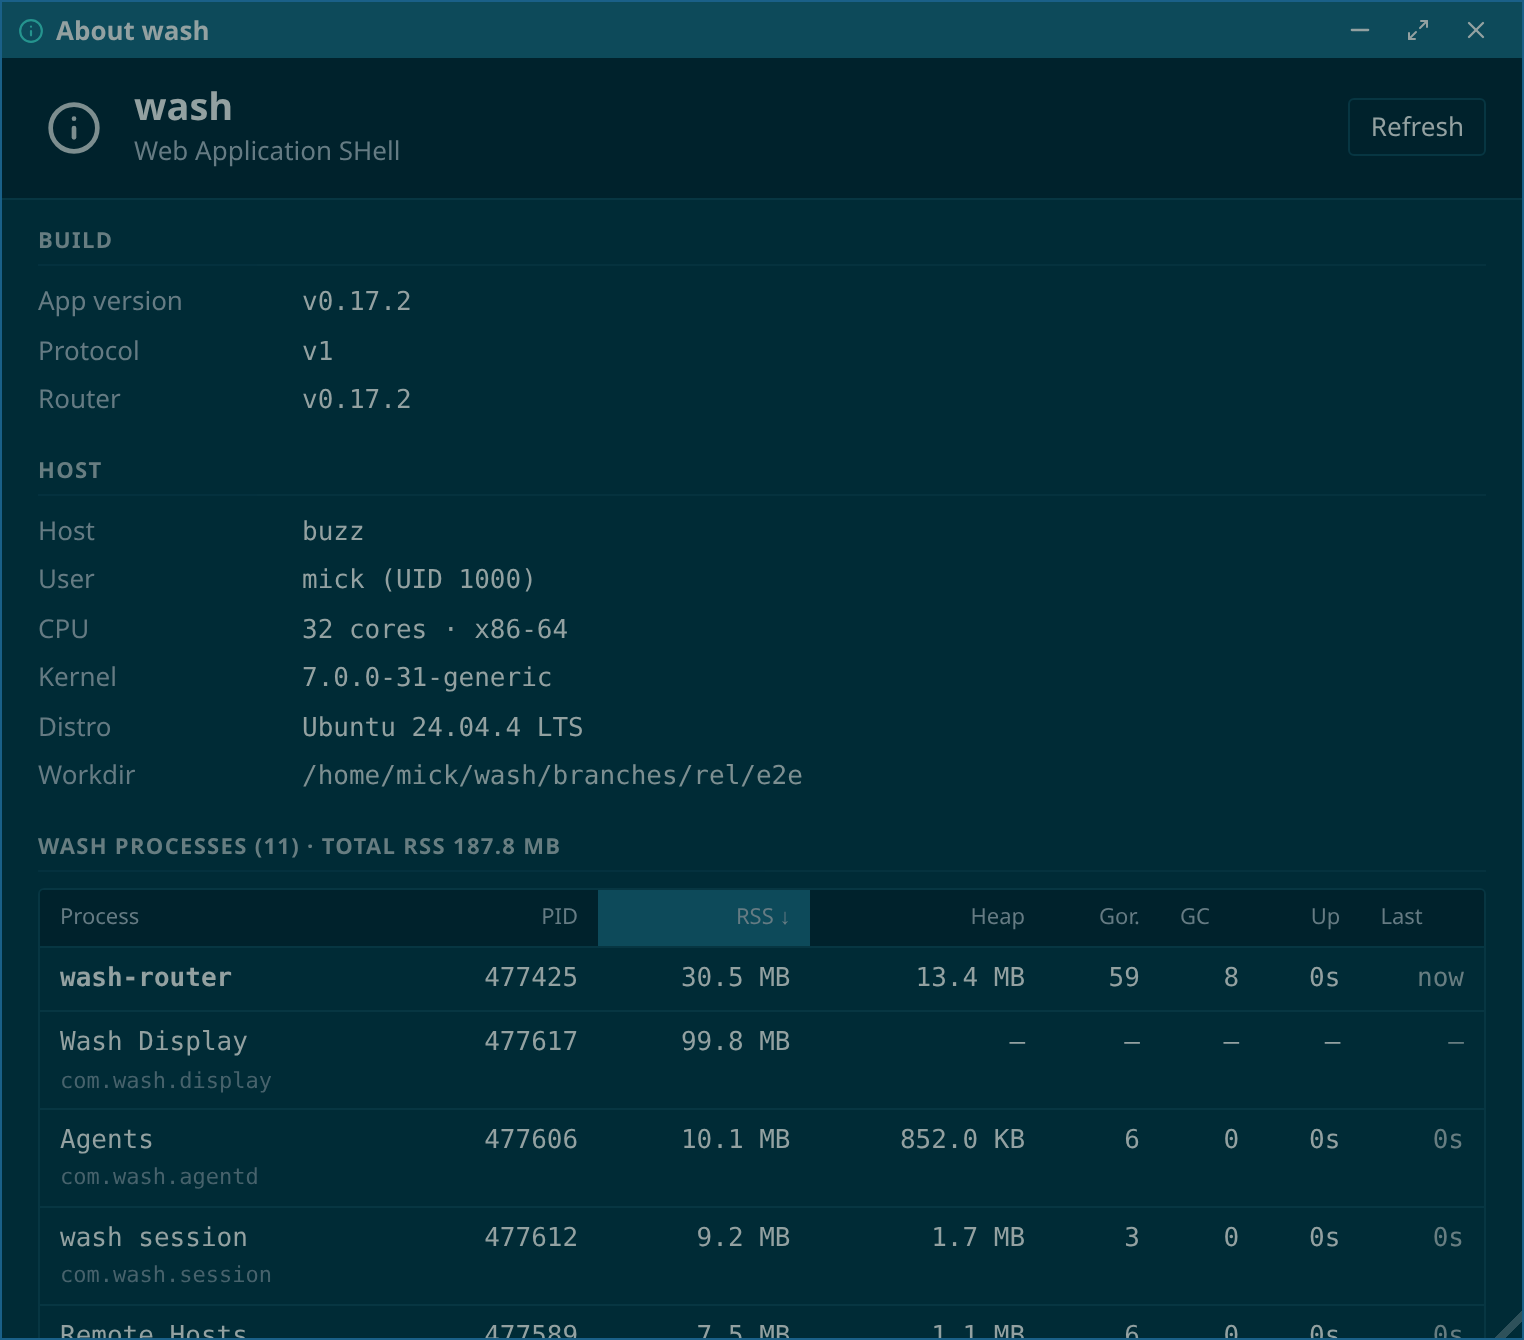
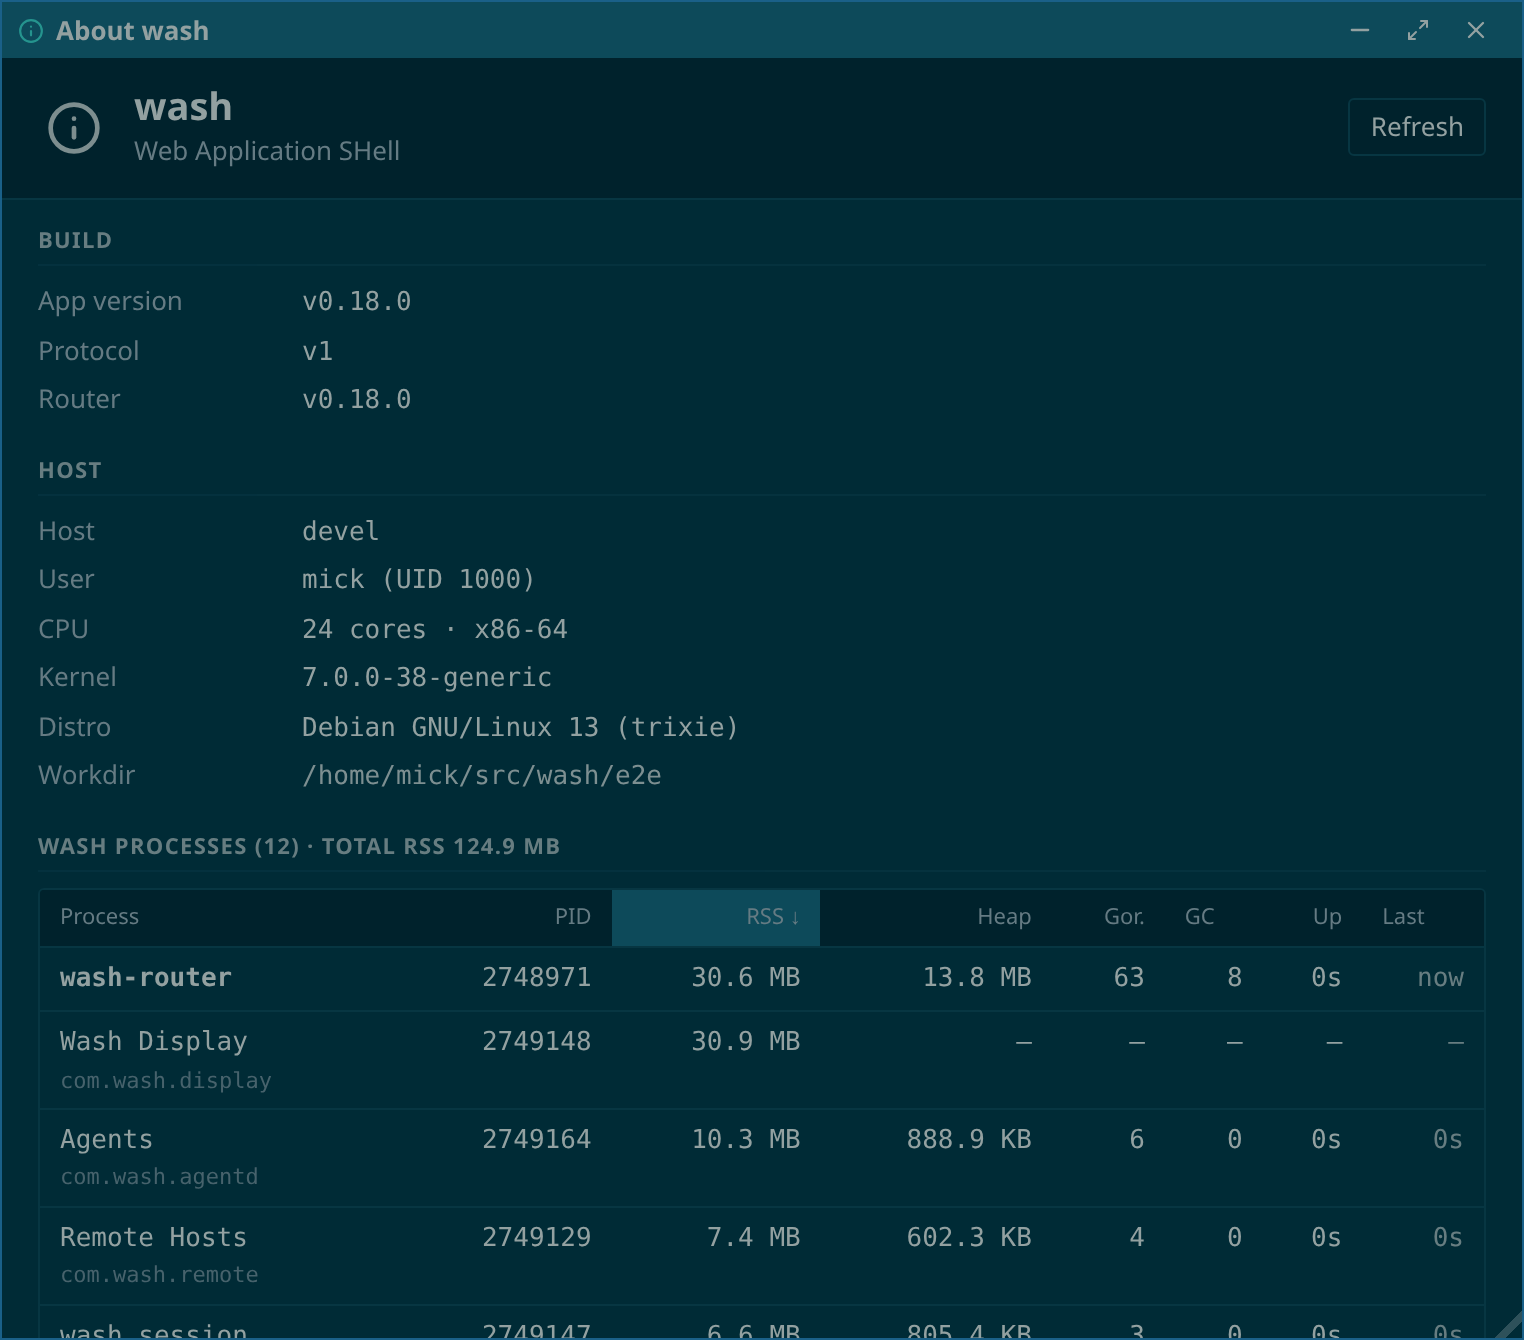
screenshots: refresh the marketing shots; display shot works again
Re-shot everything that isn't tied to the capture host. disks, net, top,
services and imageview keep their previous copies: shot from a container
they leak its mounts and cluster daemons, and imageview falls back to
synthetic images without a ~/Pictures (docs/SCREENSHOTS.md, "Host-dependent
shots").

- connect: WASH_DISCOVERY_NO_MDNS so only the static seeds show. The old
  shot listed the capture host's real LAN neighbours and addresses.
- display: a WLROOTS_VENDORED compositor now carries a $ORIGIN/lib rpath
  next to /usr/lib/wash, and the fixture links out/lib beside the staged
  copy, so the unpackaged build can load its libwlroots. Chromium gets
  --no-sandbox --test-type (containers deny its namespace sandbox) and a
  plain-ASCII <title> so the window isn't labelled with mojibake.

diff --git a/e2e/capture/screenshots.cap.ts b/e2e/capture/screenshots.cap.ts
@@ -207,10 +207,14 @@ test.describe('screenshots', () => {
       // The montage's Agent window: fake adapter on PATH + posed replies.
       PATH: `${FAKE_DIR}:${process.env.PATH ?? ''}`,
       ACP_FAKE_SCRIPT: MONTAGE_SCRIPT,
-      // Deterministic LAN peers for the Connect "On your network" shot; the
-      // no-advertise flag keeps headless runs from broadcasting mDNS. Only the
+      // Deterministic LAN peers for the Connect "On your network" shot. NO_MDNS
+      // stops it browsing the real LAN — otherwise the capture host's actual
+      // neighbours (names + addresses) land in a public screenshot — and
+      // no-advertise keeps headless runs from broadcasting. Only the
       // remote/connect apps read these — harmless for every other shot.
-      WASH_DISCOVERY_STATIC: 'labbox=10.42.0.9:2222,prod-db=10.42.0.10,build01=10.42.0.11',
+      WASH_DISCOVERY_STATIC: 'labbox=10.42.0.9:2222,prod-db=10.42.0.10,build01=10.42.0.11,' +
+        'nas=10.42.0.4,pi-garage=10.42.0.23,router=10.42.0.1,media=10.42.0.12',
+      WASH_DISCOVERY_NO_MDNS: '1',
       WASH_DISCOVERY_NO_ADVERTISE: '1',
     },
   } });
@@ -556,12 +560,15 @@ test.describe('screenshots', () => {
     // it: chromium first, a short sleep, then xclock — so xclock maps last and
     // stays visible on top.
     const html =
-      'data:text/html,<body style=margin:0;height:100vh;background:%230b1020;color:%23e6edf3;' +
+      'data:text/html,<title>wash: a real browser</title><body style=margin:0;height:100vh;background:%230b1020;color:%23e6edf3;' +
       'font-family:system-ui;display:grid;place-items:center>' +
       '<div style=text-align:center><div style=font-size:46px;font-weight:600>wash</div>' +
       '<div style=font-size:17px;opacity:.55;margin-top:10px>a real browser, composited into a real window</div></div></body>';
+    // --no-sandbox: containers (Incus, docker) deny the user-namespace sandbox
+    // and chromium aborts at startup; it only renders the inline page above.
+    // --test-type hides the "unsupported flag" infobar --no-sandbox would draw.
     const chrome =
-      `${chromiumBin} --ozone-platform=x11 --disable-gpu --no-first-run ` +
+      `${chromiumBin} --ozone-platform=x11 --disable-gpu --no-first-run --no-sandbox --test-type ` +
       `--no-default-browser-check --hide-crash-restore-bubble ` +
       `--window-position=300,235 --window-size=940,600 ` +
       `--user-data-dir=/tmp/wash-shot-chrome '${html}'`;

diff --git a/e2e/fixtures/router.ts b/e2e/fixtures/router.ts
@@ -248,6 +248,7 @@ function stageApps(paths: string[]): string {
       }
       symlinkSync('wash', join(dir, name));
     }
+    stageDisplayLibs(dir, binaries);
     return dir;
   }
   // Default: each app is its own separate binary (today's layout).
@@ -256,7 +257,18 @@ function stageApps(paths: string[]): string {
     copyFileSync(bin, dest);
     chmodSync(dest, 0o755);
   }
+  stageDisplayLibs(dir, binaries);
   return dir;
+}
+
+// A WLROOTS_VENDORED wash-display links the out/lib/libwlroots.so it was built
+// with, found via its $ORIGIN/lib rpath — so the staged copy needs a lib/ beside
+// it. Distro-wlroots builds have no out/lib and need nothing.
+function stageDisplayLibs(dir: string, binaries: string[]): void {
+  const lib = join(REPO_ROOT, 'out', 'lib');
+  if (binaries.some((b) => b.endsWith('/wash-display')) && existsSync(lib)) {
+    symlinkSync(lib, join(dir, 'lib'));
+  }
 }
 
 export async function startRouter(opts: RouterOptions = {}): Promise<RouterHandle> {

diff --git a/docs/SCREENSHOTS.md b/docs/SCREENSHOTS.md
@@ -108,6 +108,27 @@ Two rules learned the hard way:
 mDNS peers, and `WASH_DISCOVERY_NO_ADVERTISE=1` stops headless runs from
 broadcasting. (Same seam as `e2e/tests/discovery.spec.ts`.)
 
+`WASH_DISCOVERY_NO_MDNS=1` turns real mDNS browsing off, so the list is the
+static seeds only. Without it the capture host's actual LAN neighbours
+(hostnames and addresses) land in a public screenshot — the committed
+`connect.png` did exactly that once.
+
+### Host-dependent shots
+
+`disks`, `net`, `top`, `services` and `imageview` show the capture machine
+itself (its disks, NICs, processes, units, and `~/Pictures`). Shoot them on a
+real desktop host: from a container or dev box they leak infrastructure
+(container mounts, cluster daemons) or fall back to synthetic images. Revert
+those PNGs if a run from elsewhere touched them.
+
+### The display shot
+
+It needs `out/wash-display`, `/usr/bin/xclock` (apt `x11-apps`) and chromium.
+A `WLROOTS_VENDORED=1` compositor finds its `out/lib/libwlroots.so` through a
+`$ORIGIN/lib` rpath; the fixture symlinks `out/lib` next to the staged copy.
+Chromium runs with `--no-sandbox --test-type`, because containers deny its
+user-namespace sandbox and it aborts at startup otherwise.
+
 ### The PNGs are committed past a broad .gitignore
 
 `.gitignore` ignores `screenshots/` (runtime capture output from
